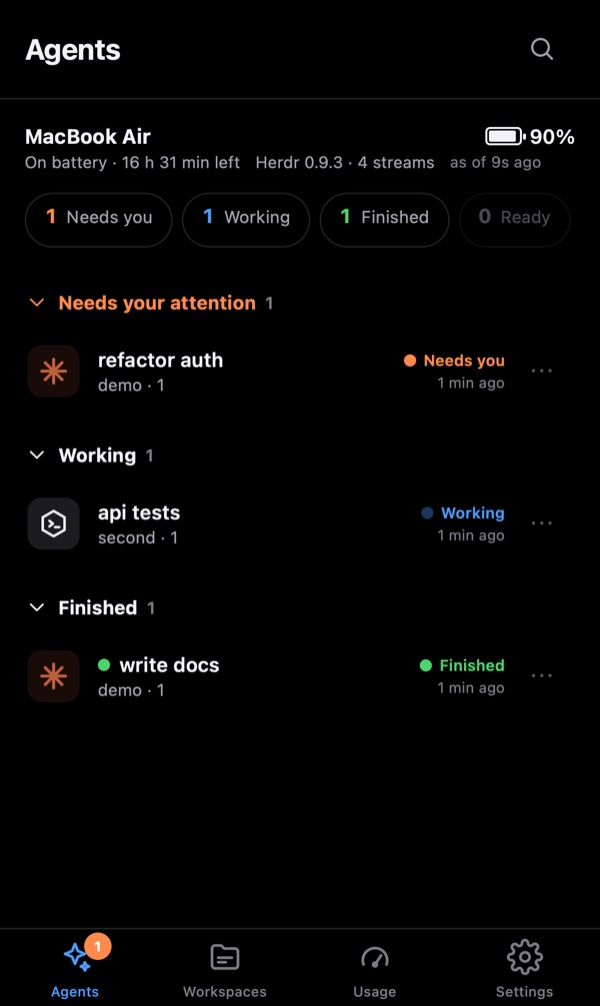
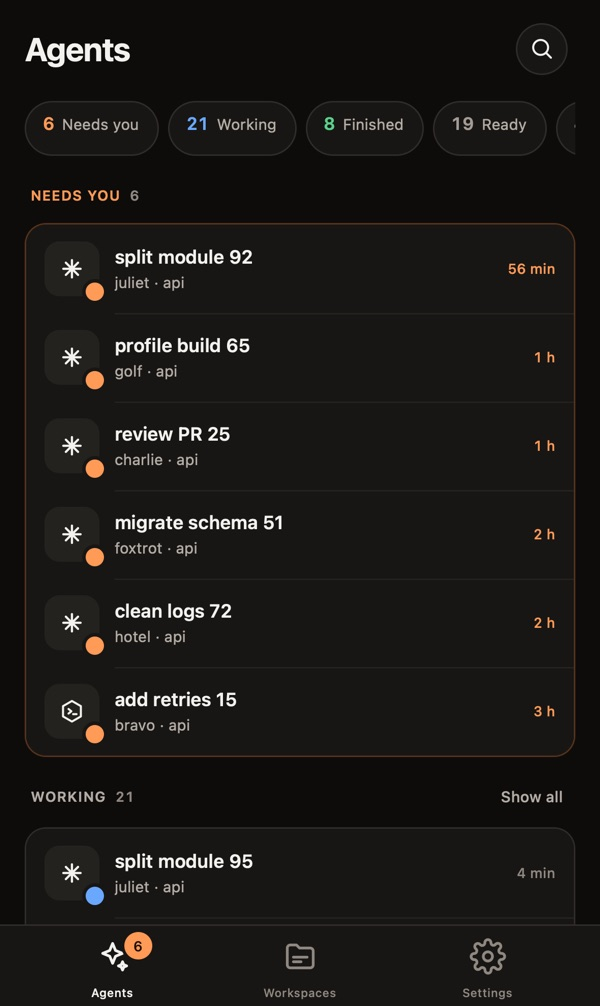
Retake the website's screenshots in the new design
Agents and Changes in dark mode, from the bench fixture's made-up streams.

diff --git a/site/index.html b/site/index.html
@@ -159,7 +159,7 @@
             <img src="/screens/changes-dark.jpg" alt="A stream's Changes tab with a git diff" width="600" height="1006">
           </div>
           <div class="phone front">
-            <img src="/screens/agents-dark.jpg" alt="The Agents list: one agent needs you, one is working, one finished" width="600" height="1006">
+            <img src="/screens/agents-dark.jpg" alt="The Agents list: the agents that need you in their own card, then the ones working" width="600" height="1006">
           </div>
         </div>
       </div>
